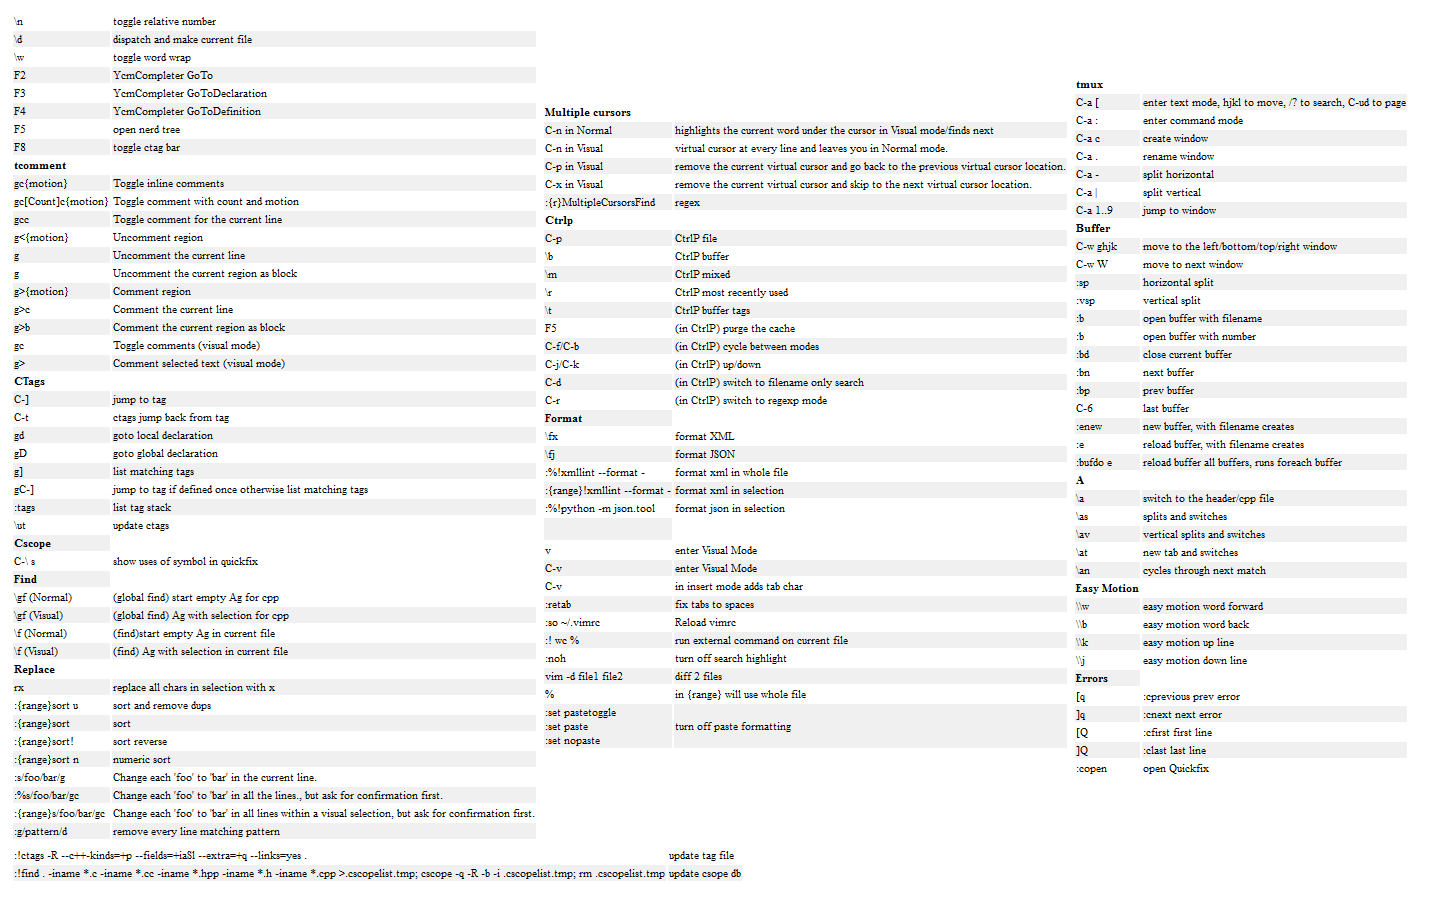
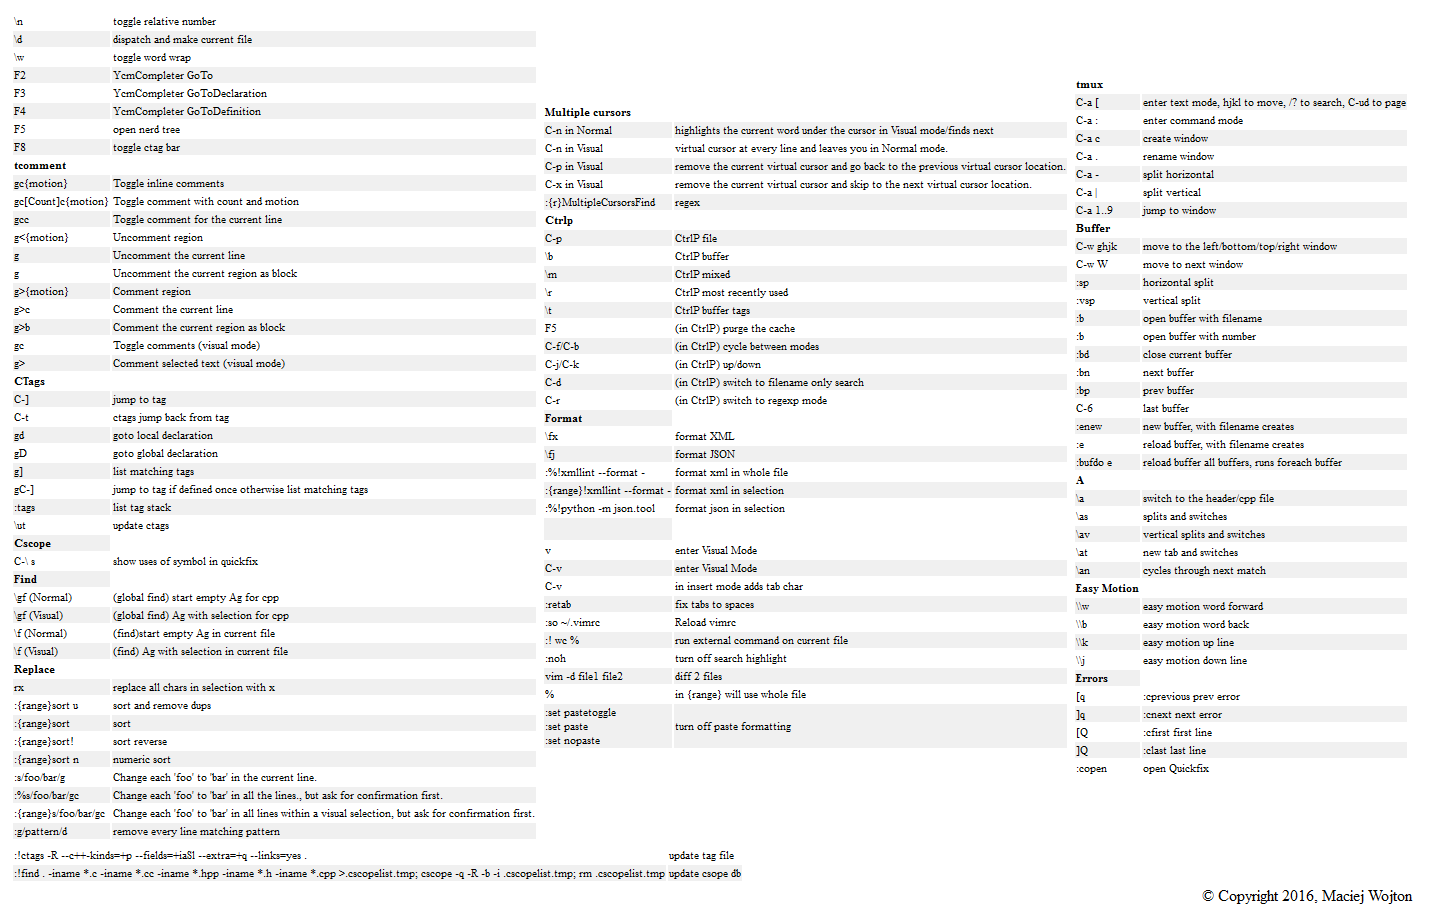
added footer

diff --git a/vim_cheatsheet.html b/vim_cheatsheet.html
@@ -9,6 +9,12 @@
         <td>
             <table class="fixed">
                 <tr>
+                    <td/><td/><td/><td/><td/><td/><td/>
+                    <td>
+                        <medium><u>motions</u></medium>
+                    </td>
+                </tr>
+                <tr>
                     <td id="p01"><vimact>v</vimact><br/><small>visual mode</small></td>
                     <td><vimact>gv</vimact><br/><small>select last selection</small></td>
                     <td>
@@ -470,3 +476,6 @@
         </tr>
     </table>
 </body>
+<footer>
+    <small><span style='float:right'>&copy; Copyright 2016, Maciej Wojton</span></small>
+</footer>

diff --git a/render.js b/render.js
@@ -3,7 +3,7 @@ var saveTable = function() {
     page.paperSize = {
         format: 'Letter',
         orientation: 'landscape',
-        margin: '0.3in'
+        margin: '0.1in'
     }
     page.open('vim_cheatsheet_table.html', function(status) {
         console.log("Status: " + status);
@@ -43,7 +43,7 @@ var save = function() {
     page.paperSize = {
         format: 'Letter',
         orientation: 'landscape',
-        margin: '0.25n'
+        margin: '0.1in'
     }
     page.open('vim_cheatsheet.html', function(status) {
         console.log("Status: " + status);

diff --git a/vim_cheatsheet_table.html b/vim_cheatsheet_table.html
@@ -148,3 +148,6 @@
     </tr>
 </table>
 </body>
+<footer>
+    <small><span style='float:right'>&copy; Copyright 2016, Maciej Wojton</span></small>
+</footer>
